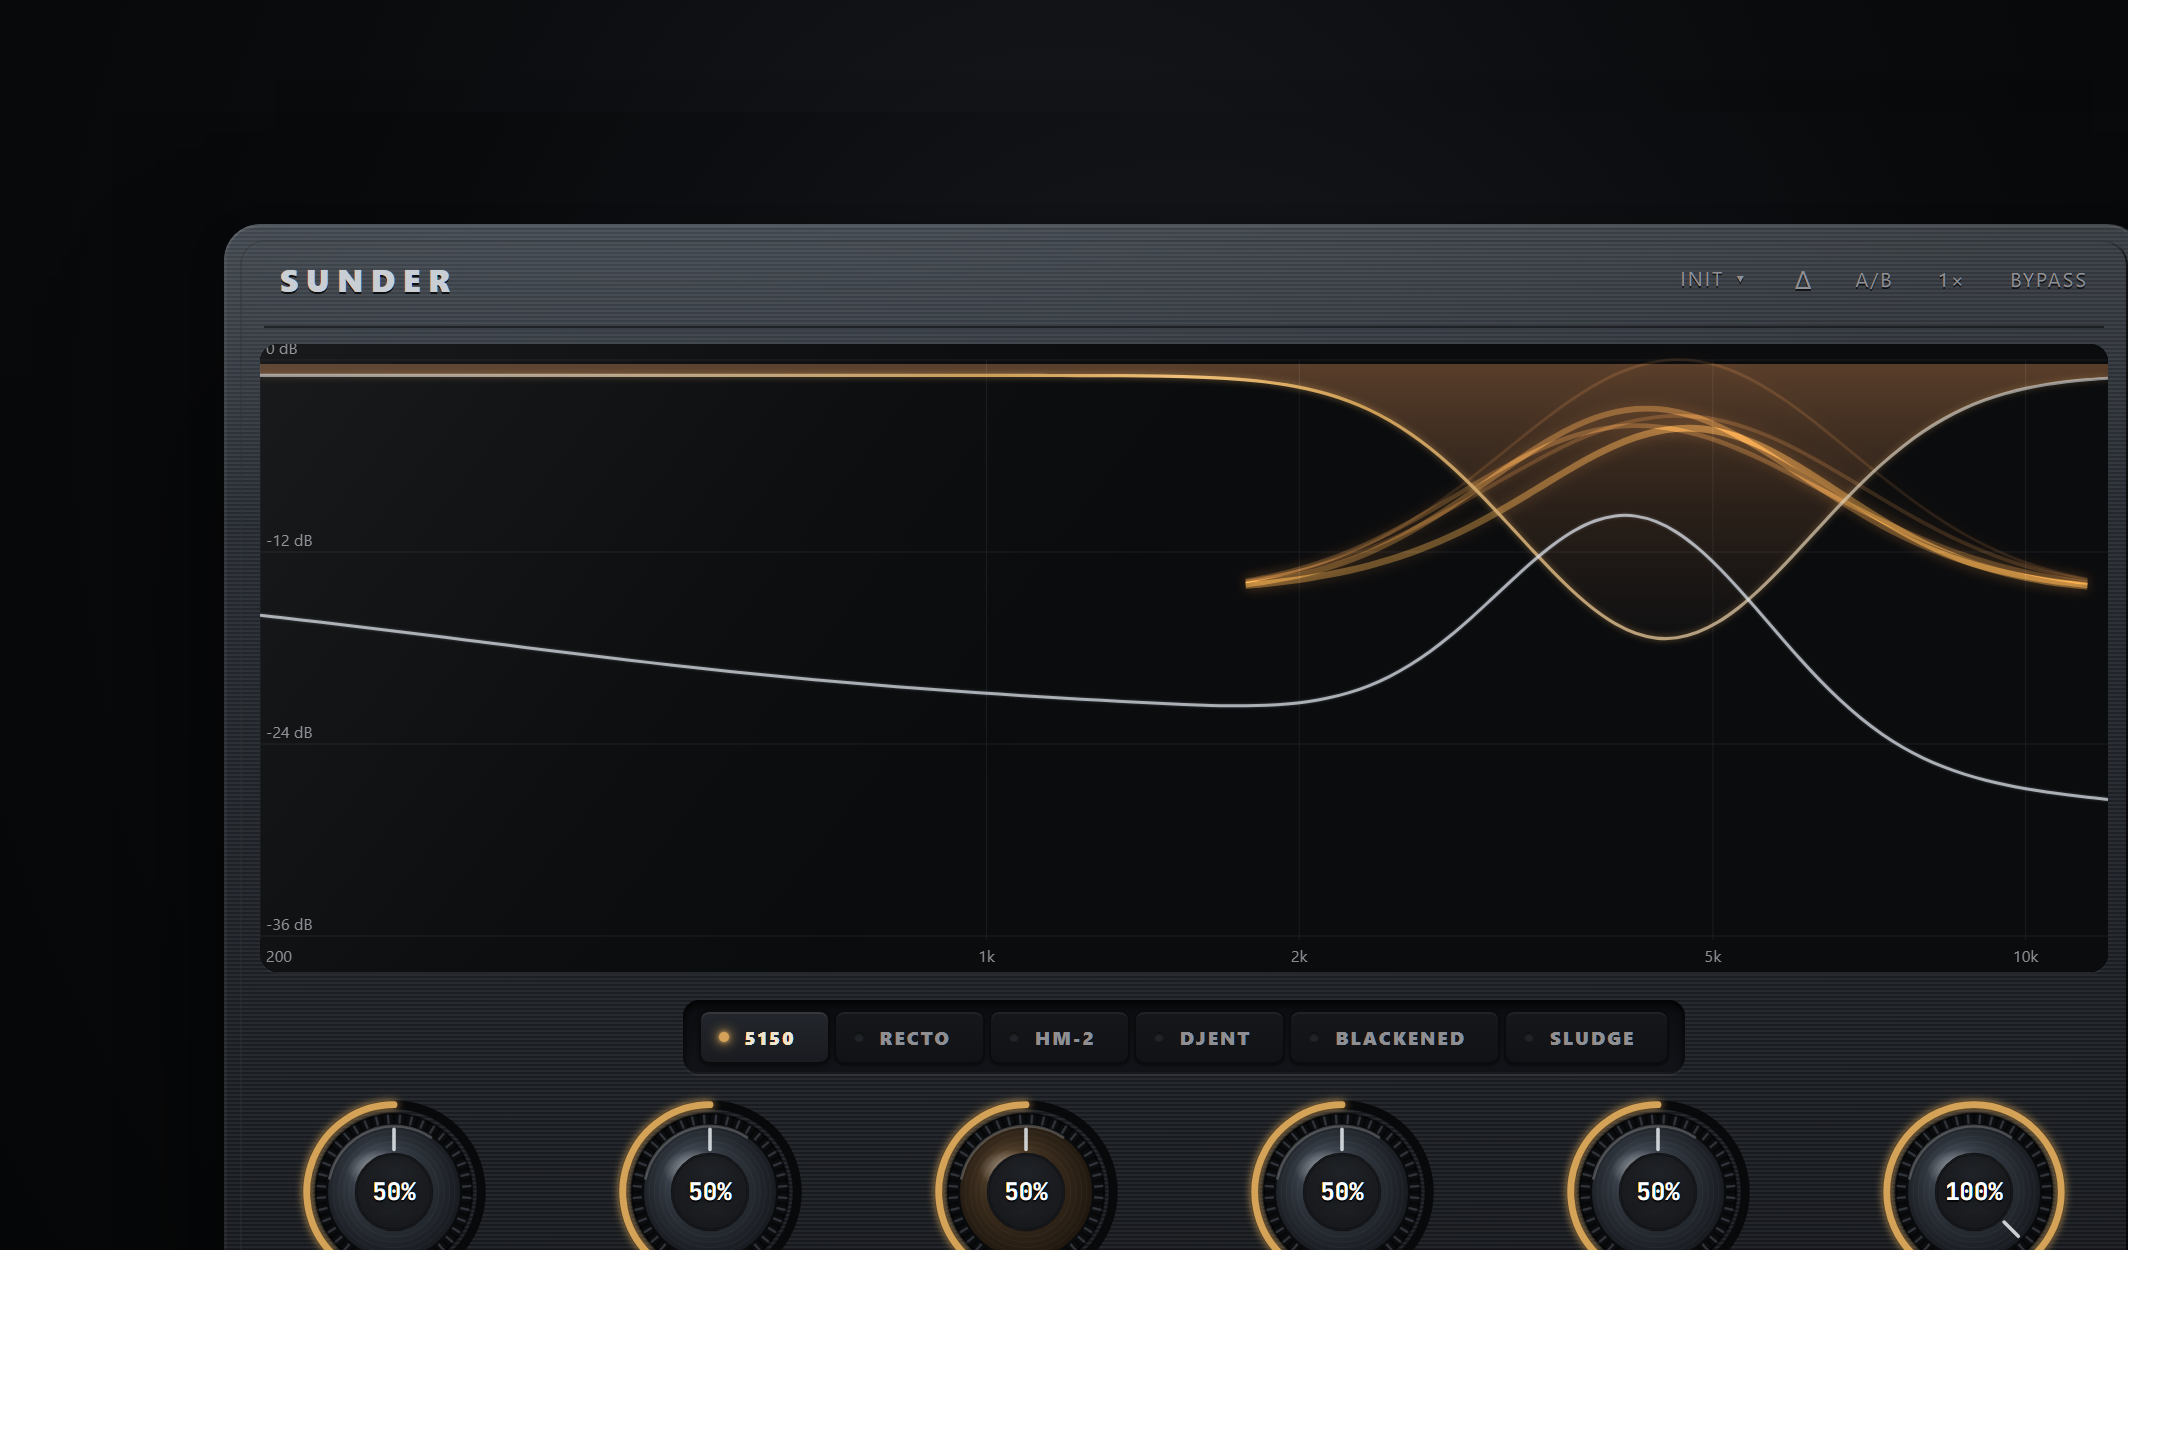
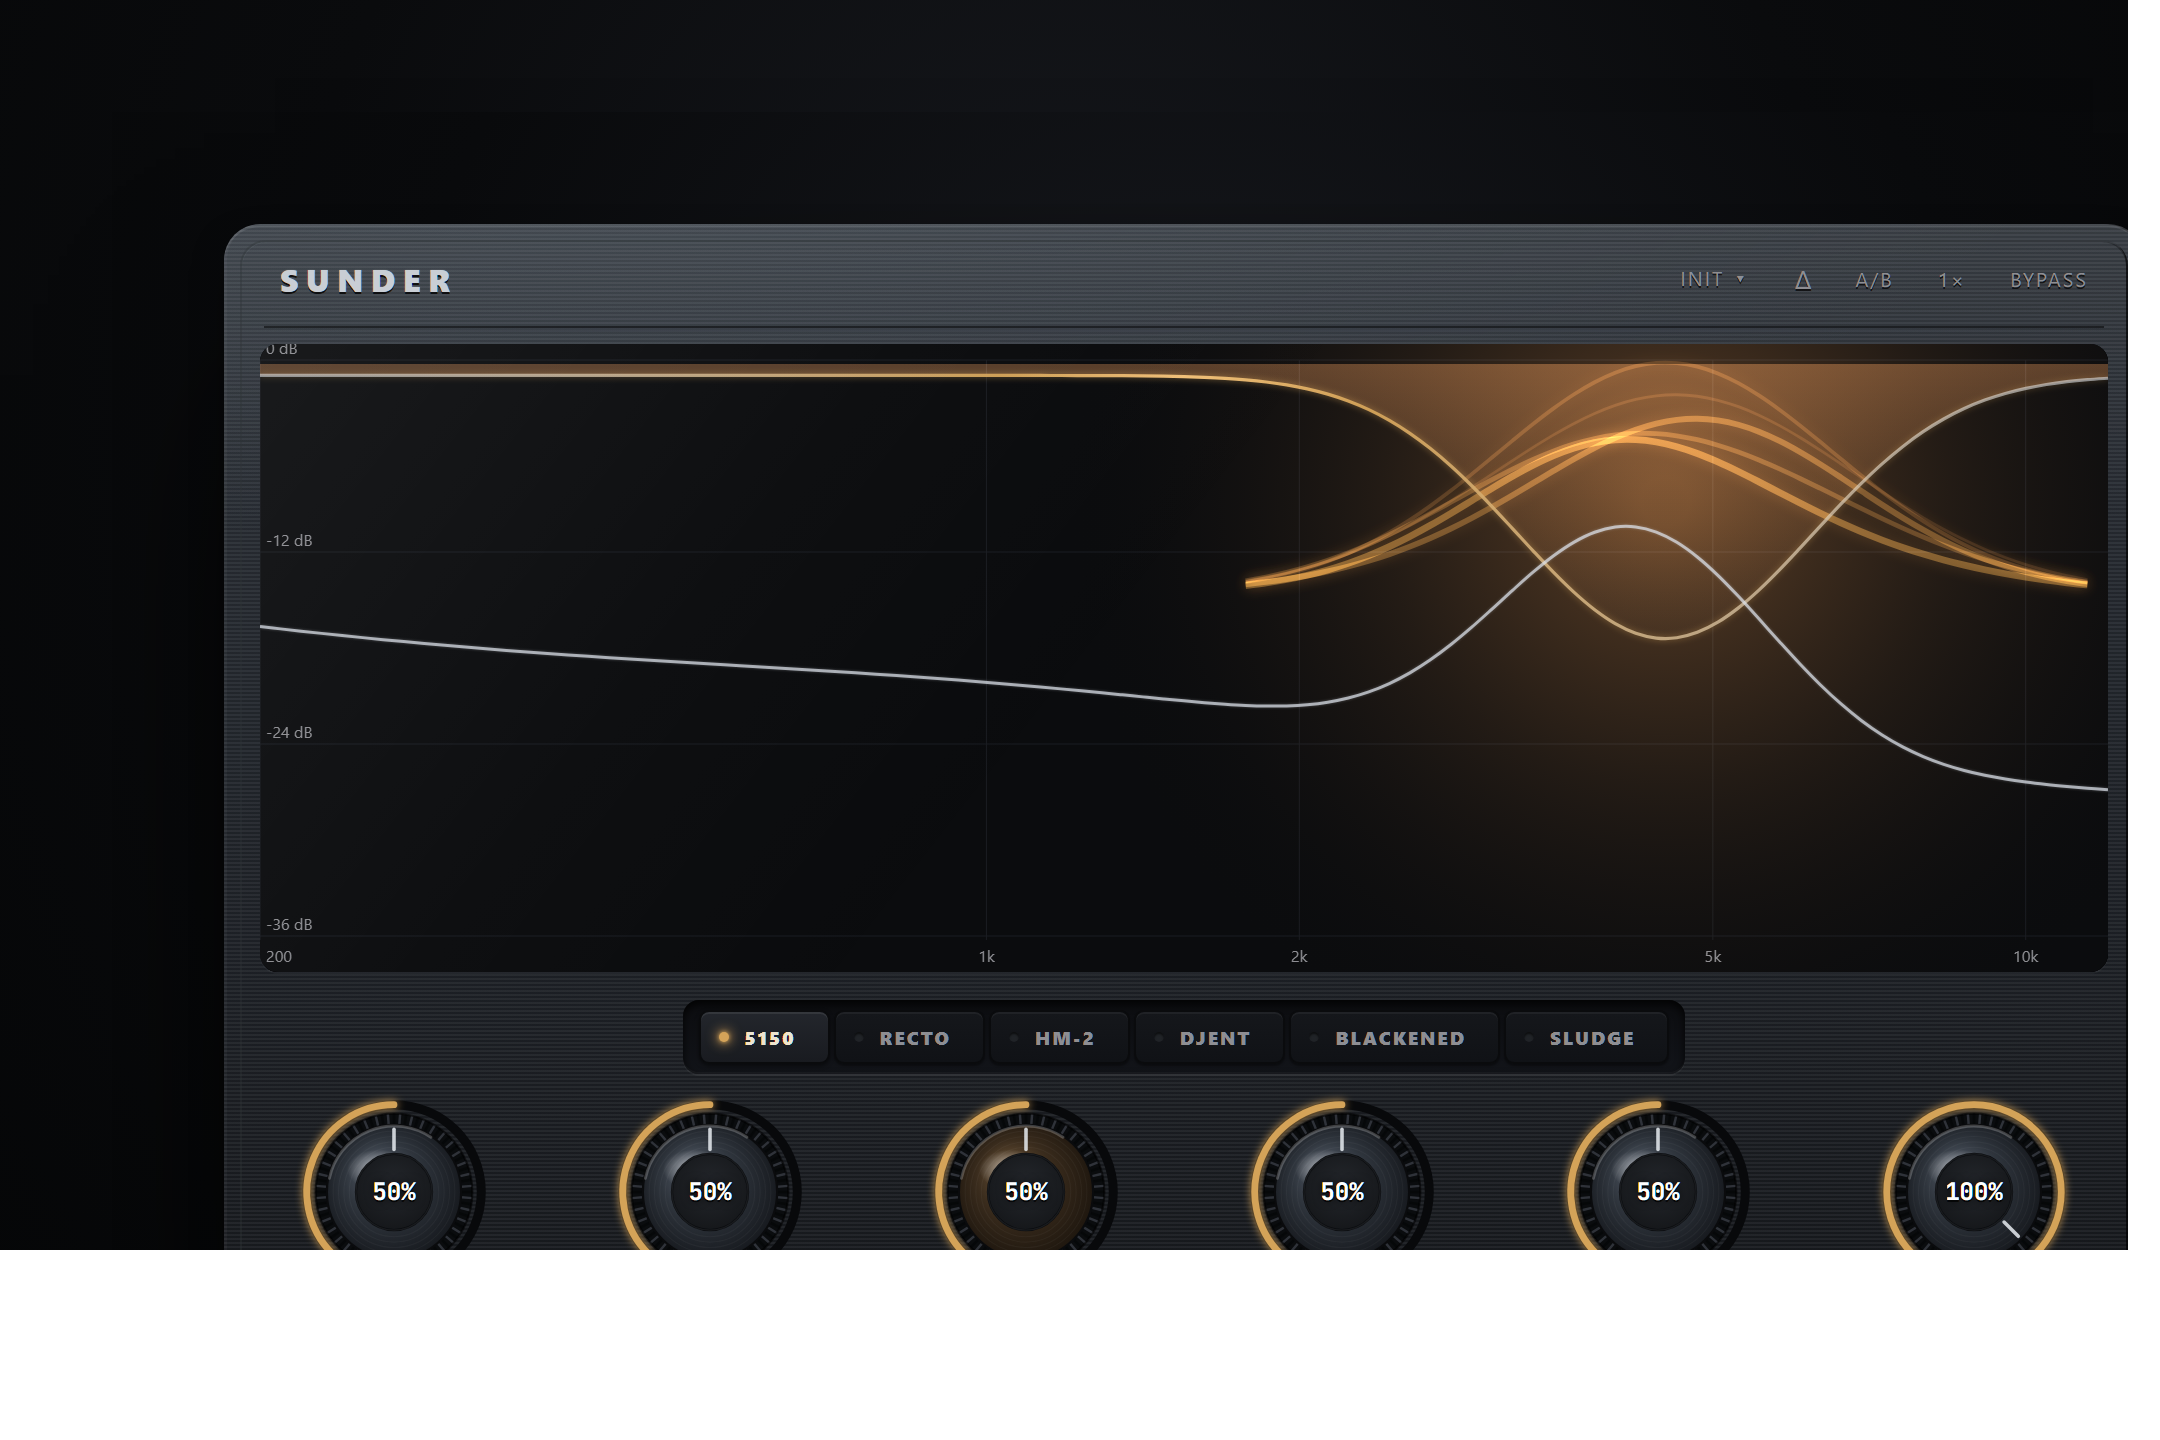
sunder v3 refine: volumetric copper bloom behind silk + brighter knob specular
Adds a soft additive radial bloom centered on the target band so the reduction
veil reads as an illuminated copper cloud (matches the reference screen), and
lifts the knob specular highlight. Visual match to Sunder-concept ~90-92%.

diff --git a/design/sunder/v3-test.html b/design/sunder/v3-test.html
@@ -224,7 +224,7 @@
     for(let r=20;r<=28;r+=2.4){ svg.appendChild(el('circle',{cx:CX,cy:CY,r:r,fill:'none',stroke:'rgba(255,255,255,0.035)','stroke-width':'0.5'})); }
     // spherical specular highlight (top-left)
     const spg=el('radialGradient',{id:'sp'+idx,cx:'0.5',cy:'0.5',r:'0.5'});
-    spg.appendChild(el('stop',{offset:'0%','stop-color':'rgba(255,255,255,0.5)'}));
+    spg.appendChild(el('stop',{offset:'0%','stop-color':'rgba(255,255,255,0.62)'}));
     spg.appendChild(el('stop',{offset:'100%','stop-color':'rgba(255,255,255,0)'}));
     defs.appendChild(spg);
     svg.appendChild(el('ellipse',{cx:CX-7,cy:CY-10,rx:14,ry:9,fill:'url(#sp'+idx+')'}));
@@ -291,6 +291,13 @@
     curve(veil.map(p=>[p[0],p[1]])); ctx.lineTo(W,top); ctx.lineTo(0,top); ctx.closePath();
     ctx.fillStyle=grad; ctx.fill();
     ctx.restore();
+
+    // soft copper bloom = volumetric "cloud" behind the strands
+    ctx.save(); ctx.globalCompositeOperation='lighter';
+    const bx=fx(4500), by=top+span*0.24, br=Math.min(W*0.34,300);
+    const bloom=ctx.createRadialGradient(bx,by,12,bx,by,br);
+    bloom.addColorStop(0,'rgba(158,100,48,0.5)'); bloom.addColorStop(0.45,'rgba(120,76,36,0.2)'); bloom.addColorStop(1,'rgba(0,0,0,0)');
+    ctx.fillStyle=bloom; ctx.fillRect(0,0,W,H); ctx.restore();
 
     // smoky copper strands (additive, gated to the target band)
     ctx.save(); ctx.globalCompositeOperation='lighter';
